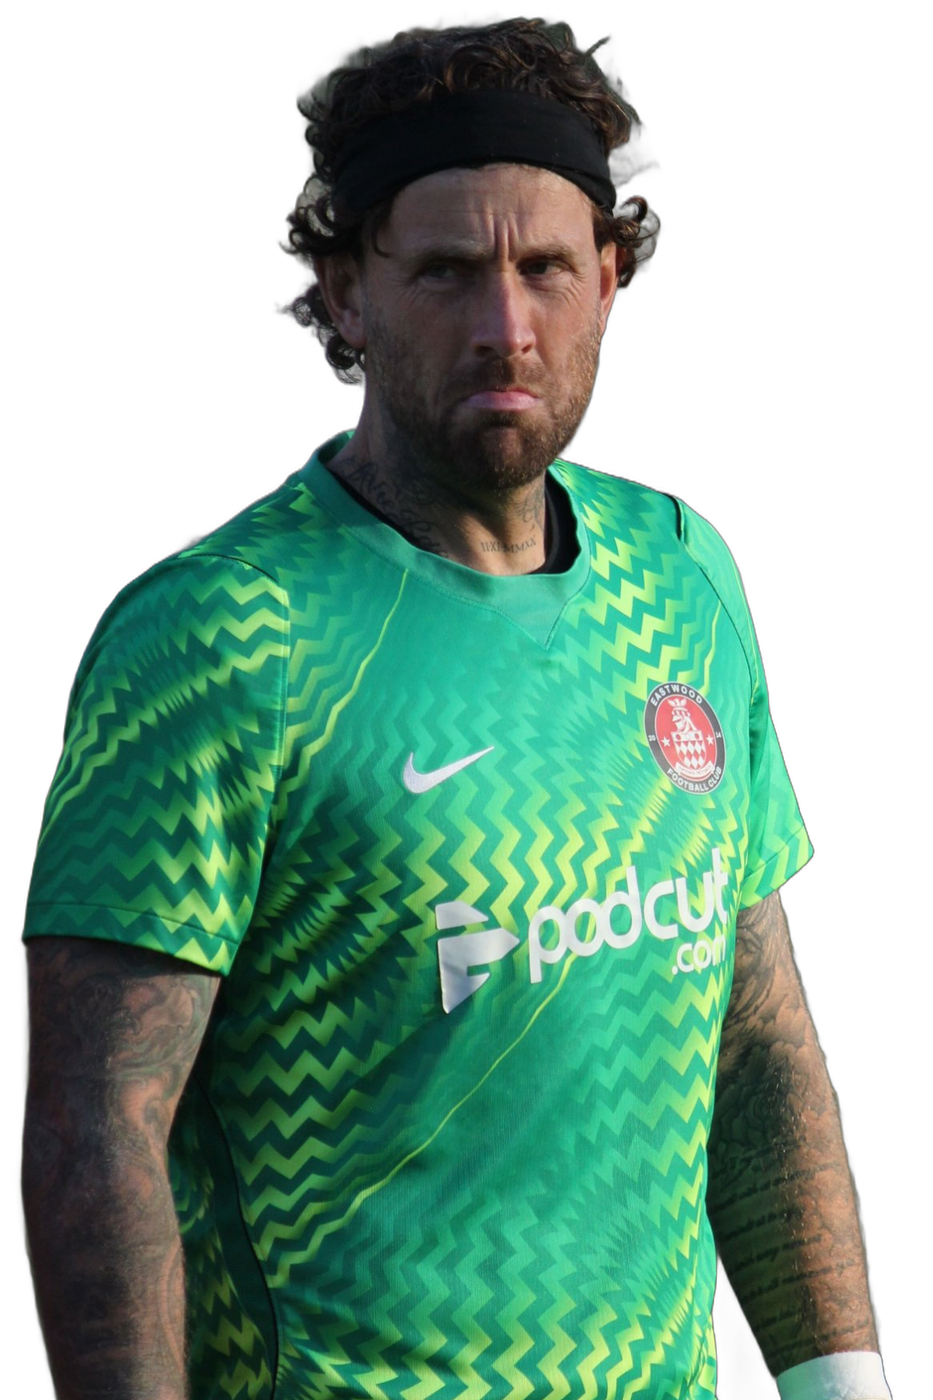
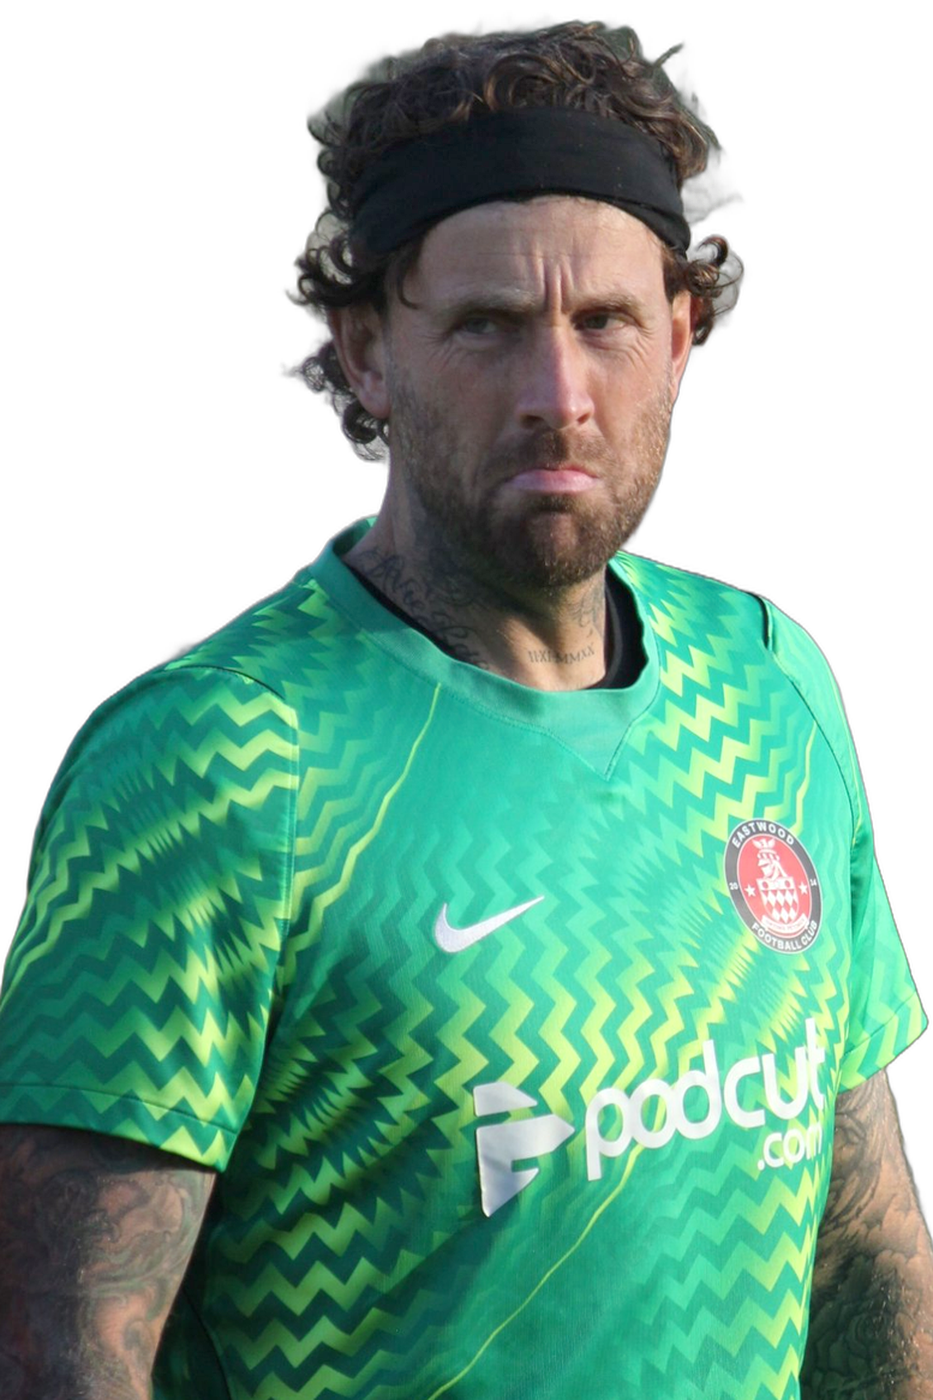
3.106.2: Loach's cut-out cropped and brightened to match the squad

diff --git a/eastwood-fwp.php b/eastwood-fwp.php
@@ -2,7 +2,7 @@
 /**
  * Plugin Name: Eastwood — club data
  * Description: Everything the Eastwood site needs from outside WordPress: the Football Web Pages proxy (live fixtures, results, league table and full match detail), the club-badge store, and the importer that pulls the club's news across from Pitchero.
- * Version: 3.106.1
+ * Version: 3.106.2
  * Author: Eastwood FC
  *
  * INSTALL: a normal plugin at wp-content/plugins/eastwood-fwp/. Updates come
@@ -4078,7 +4078,7 @@ add_action( 'wp_enqueue_scripts', 'ew_teams_assets', 20 );
  * while the header reached 2.37.0, so the site was offered a version
  * older than the one it had and seven releases never landed.
  */
-const EW_FWP_VERSION = '3.106.1';
+const EW_FWP_VERSION = '3.106.2';
 
 /*
  * Parts loader.
